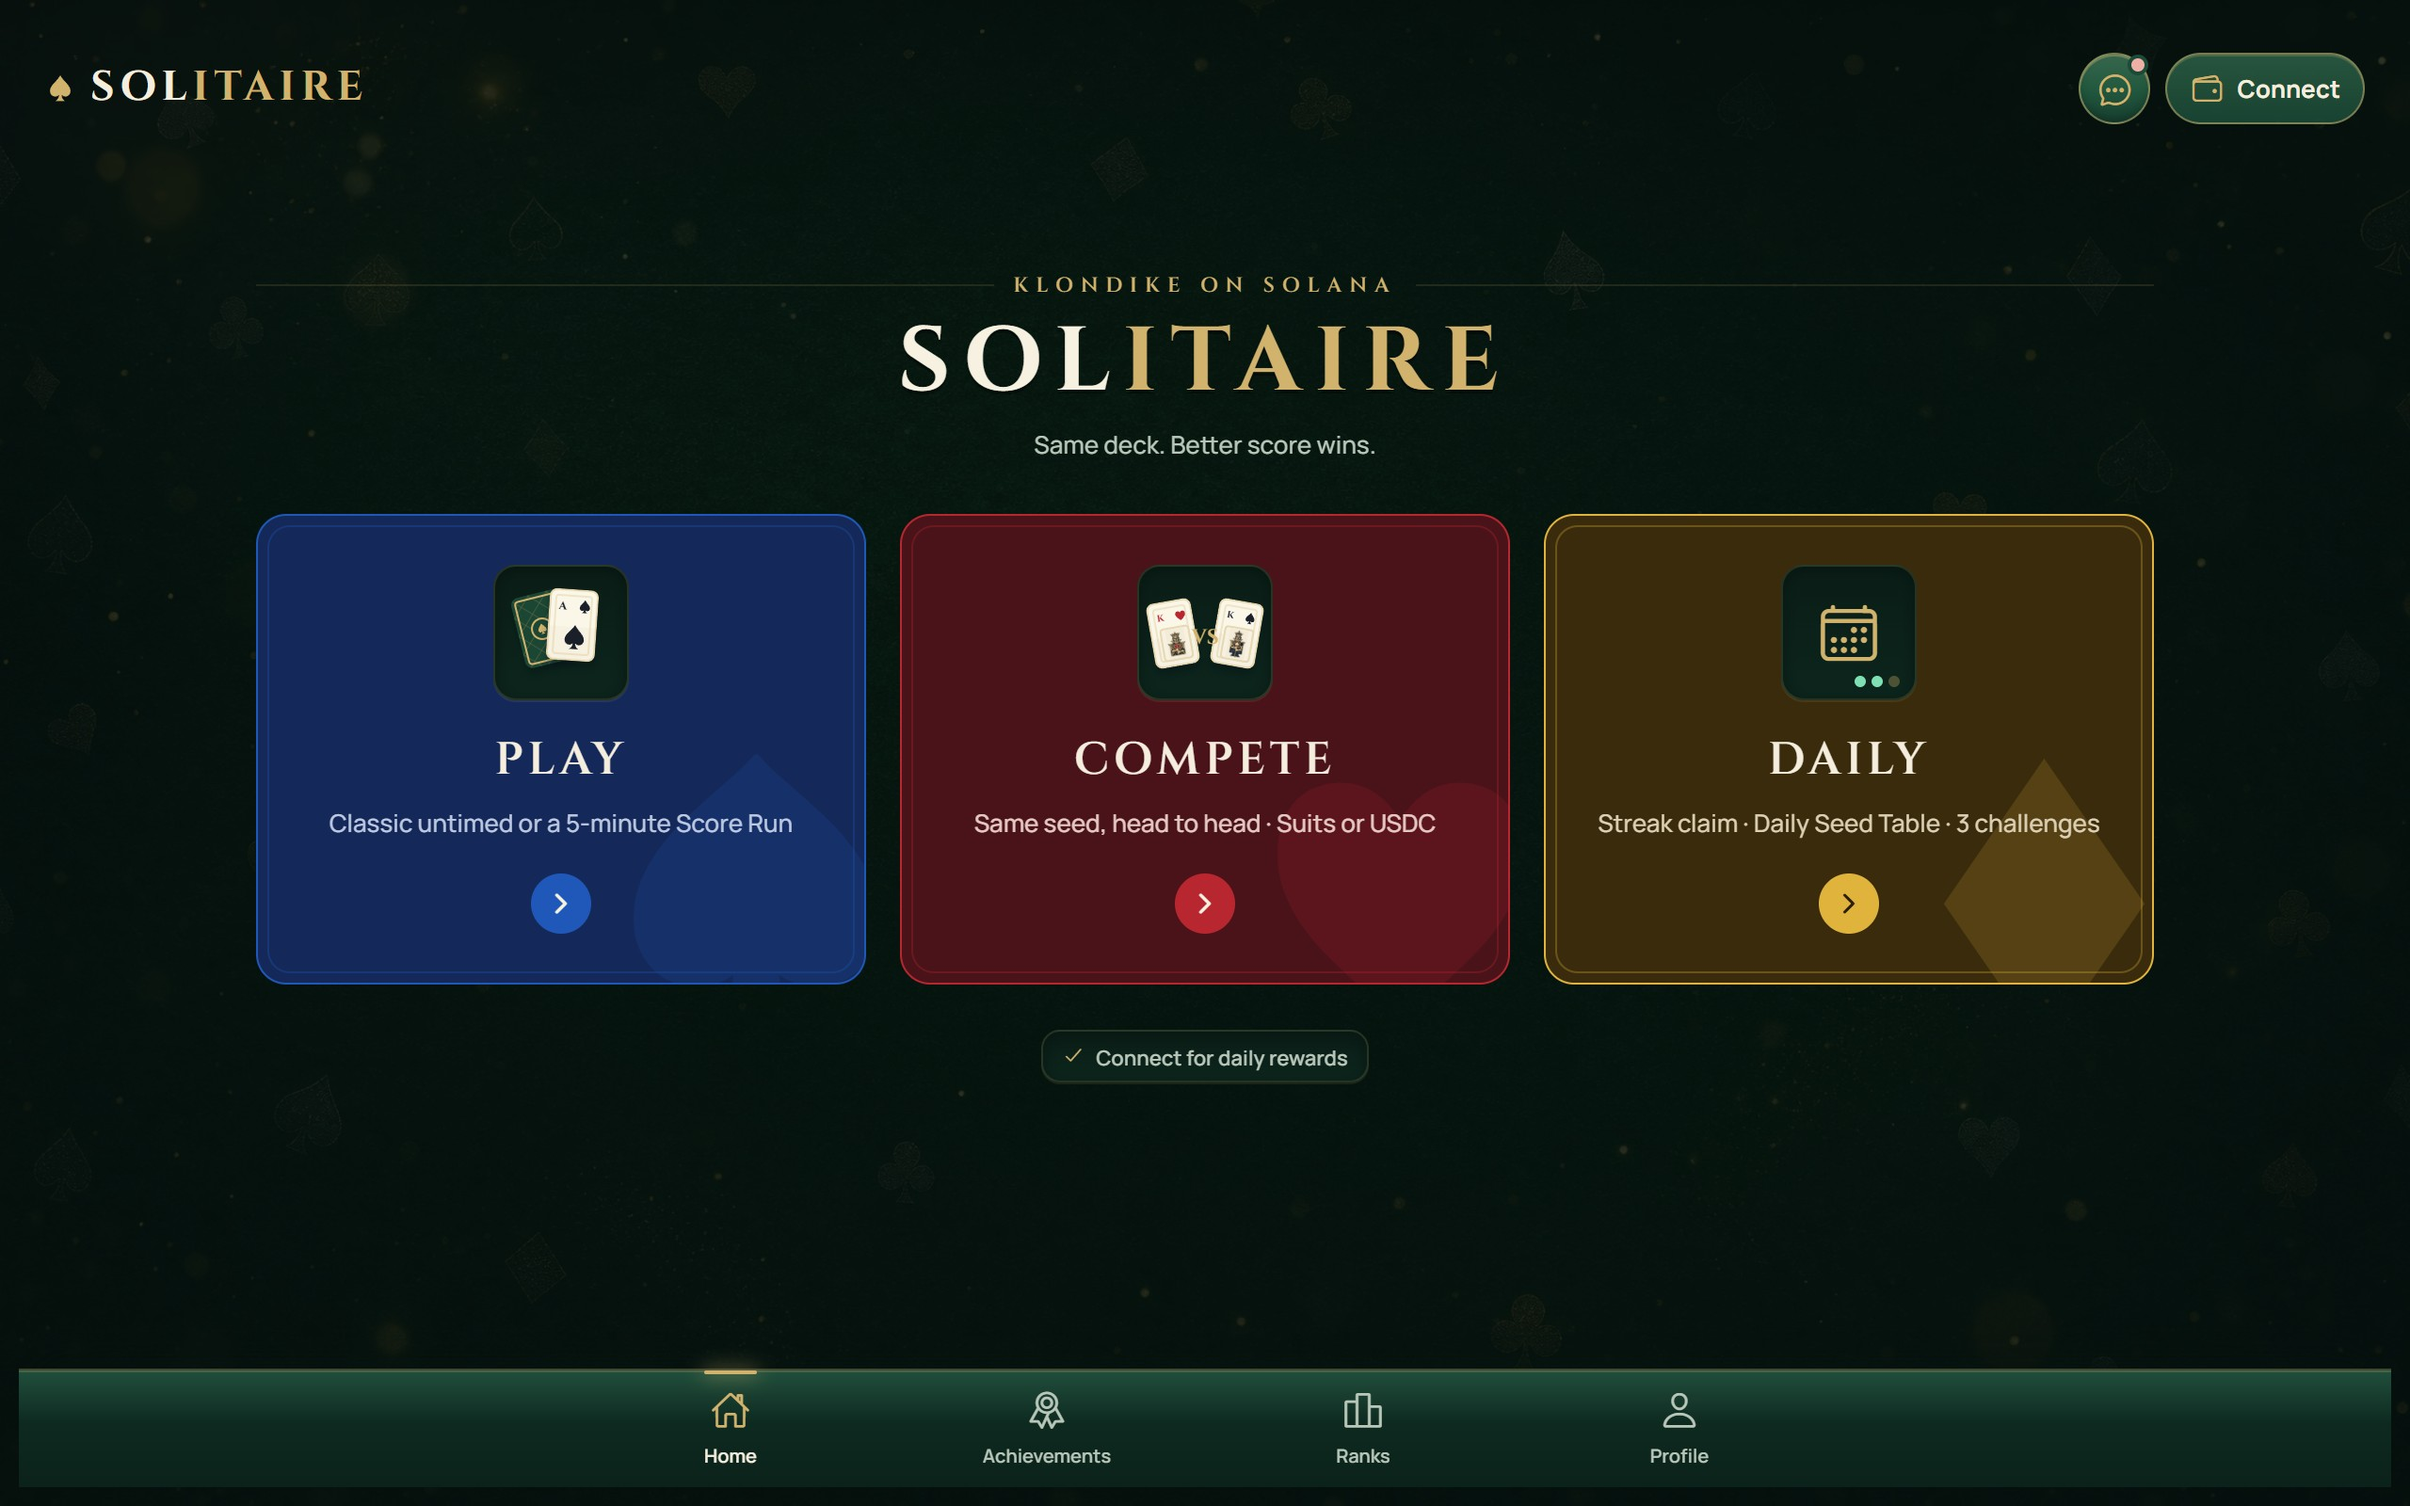
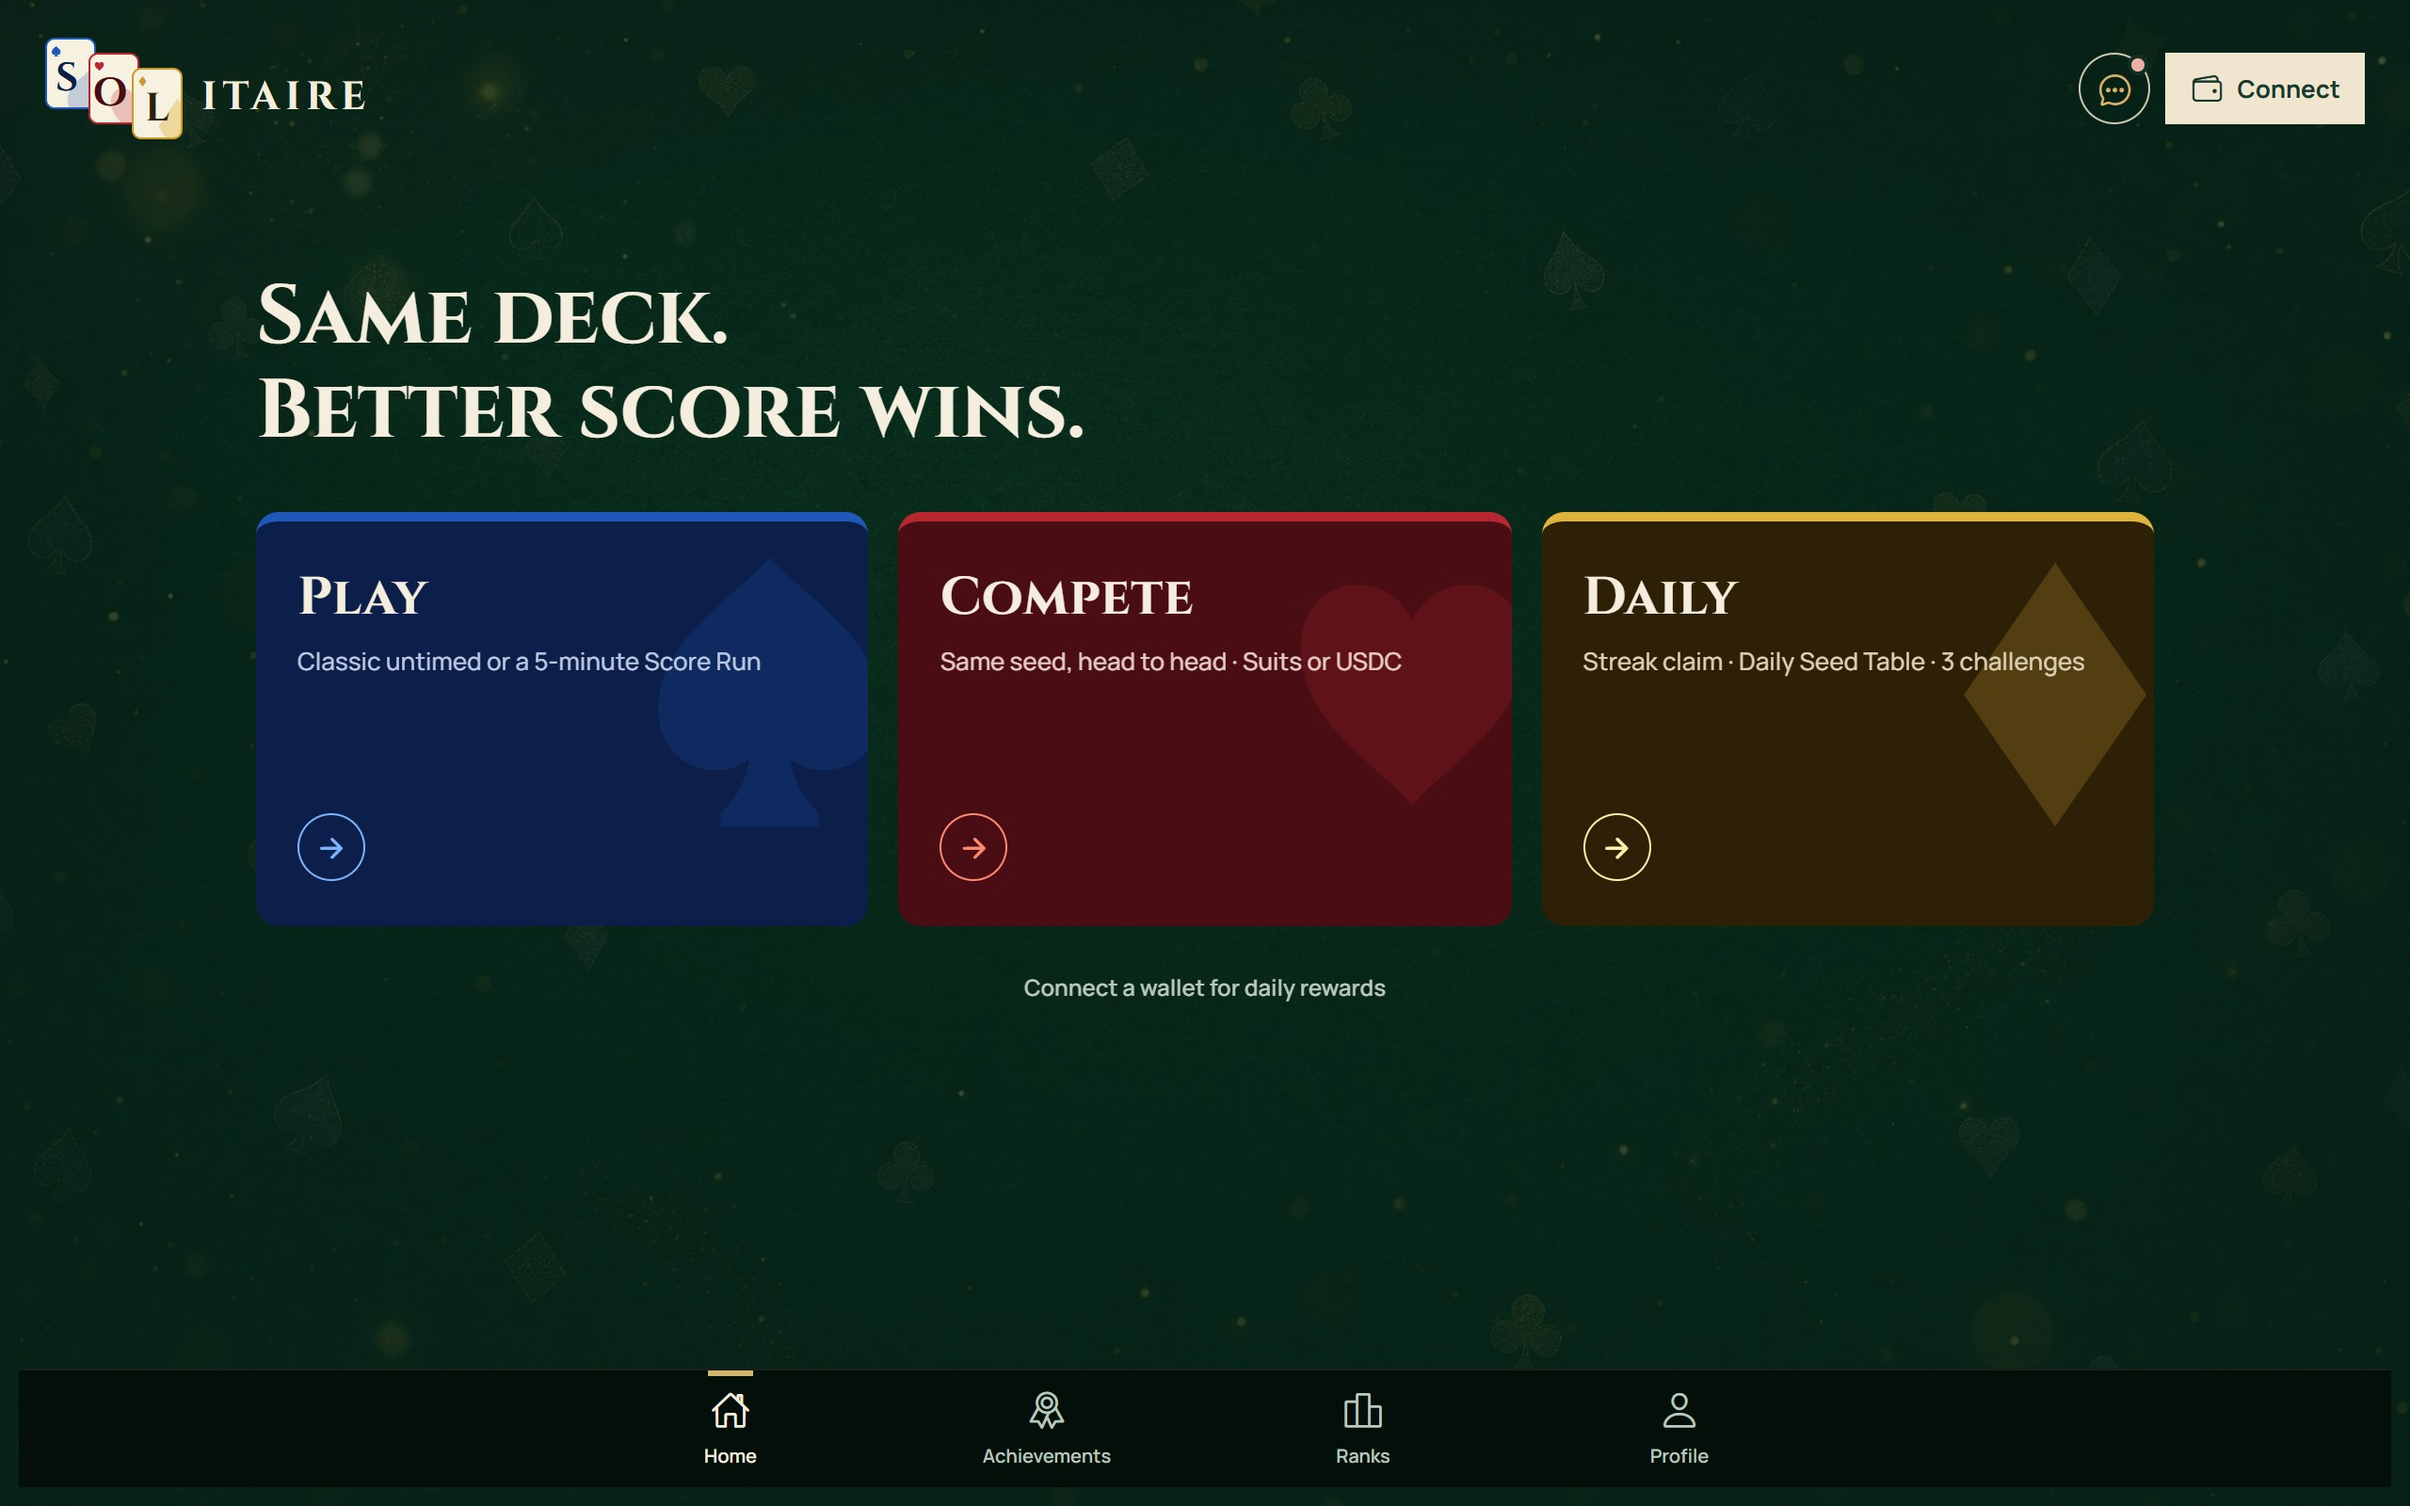
SOLitaire screens retaken after the game redesign
The game home, the app's Classic table (portal scene) and the playable
table still are recaptured from production now that the redesign is live
(solitaire-dapp 6ef5dd5): the card-stack logo, the Cinzel promise, deep
suit hubs, flat buttons and the new score bar. Same files and sizes; the
capture notes record the source and date.

diff --git a/design/solitaire/capture-notes.md b/design/solitaire/capture-notes.md
@@ -17,10 +17,9 @@ Captured with headless Chromium (playwright-core 1.56.1, Playwright Chromium 124
 | --- | --- | --- | --- | --- |
 | `solitaire-suit-hero-desktop.jpg` | Website hero, first round (spades) | local `/embed/hero` on solitaire-dapp 79032ad | 1280 x 800 @2x | 2560 x 1600 |
 | `solitaire-suit-hero-mobile.jpg` | Website hero, phone | same | 390 x 867 @3x | 1170 x 2601 |
-| `solitaire-suit-home-desktop.jpg` | Game home (Play / Compete / Daily) | https://app.sol-solitaire.com, tutorial skipped | 1280 x 800 @2x | 2560 x 1600 |
-| `solitaire-suit-table-mobile.jpg` | Classic Klondike table | same, Play > Classic | 393 x 874 @3x | 1179 x 2622 |
-
-| `solitaire-suit-table-live-mobile.jpg` | Playable table, first deal (seed 4050) | local `/embed/table` | 393 x 874 @3x | 1179 x 2622 |
+| `solitaire-suit-home-desktop.jpg` | Game home (Play / Compete / Daily), game redesign | https://app.sol-solitaire.com on 2026-10-20 (solitaire-dapp 6ef5dd5), tutorial skipped | 1280 x 800 @2x | 2560 x 1600 |
+| `solitaire-suit-table-mobile.jpg` | Classic Klondike table, game redesign | same, Play > Classic | 393 x 874 @3x | 1179 x 2622 |
+| `solitaire-suit-table-live-mobile.jpg` | Playable table, first deal (seed 4050) | https://sol-solitaire.com/embed/table on 2026-10-20 | 393 x 874 @3x | 1179 x 2622 |
 
 `gameplay` carries a second embed, `/embed/table`: a tap-to-play Classic table (draw one, undo,
 new deal from the solvable seeds) on the real engine and card faces, shown live in the deck's phone

diff --git a/TASKS.md b/TASKS.md
@@ -15,6 +15,13 @@
 
 ## Done
 
+- 2026-10-20 — **SOLitaire screens retaken after the game redesign.** Once the owner signed off and the redesign was
+  live (solitaire-dapp `6ef5dd5` on production, `dpl_DuwJ5VgP…`), recaptured from production: the game home
+  (desktop gallery shot and its "Choose your game" crop), the app's Classic table in the portal scene, and the
+  playable table still (the embed now uses the game's score bar and square buttons). Same filenames, so no code
+  change; 84 tests pass. Pushed on top of Codex's `f8c9143`, which was what fhaj.dev served; Codex's uncommitted
+  `ui.ts` lab rename (FocusQuest → Saqroon) was left out.
+
 - 2026-10-20 — **Pushed `main` to GitHub (owner's go).** The project is git-linked with `main` as its production
   branch, so the push rebuilt fhaj.dev from git: `dpl_AhkKkDZCbfEAS32JJaznJRGZerTF` (same site as the promoted
   `dpl_yGPXKGBX…`, which is now the rollback). Re-checked live: both SOLitaire embeds play, APK downloads.
